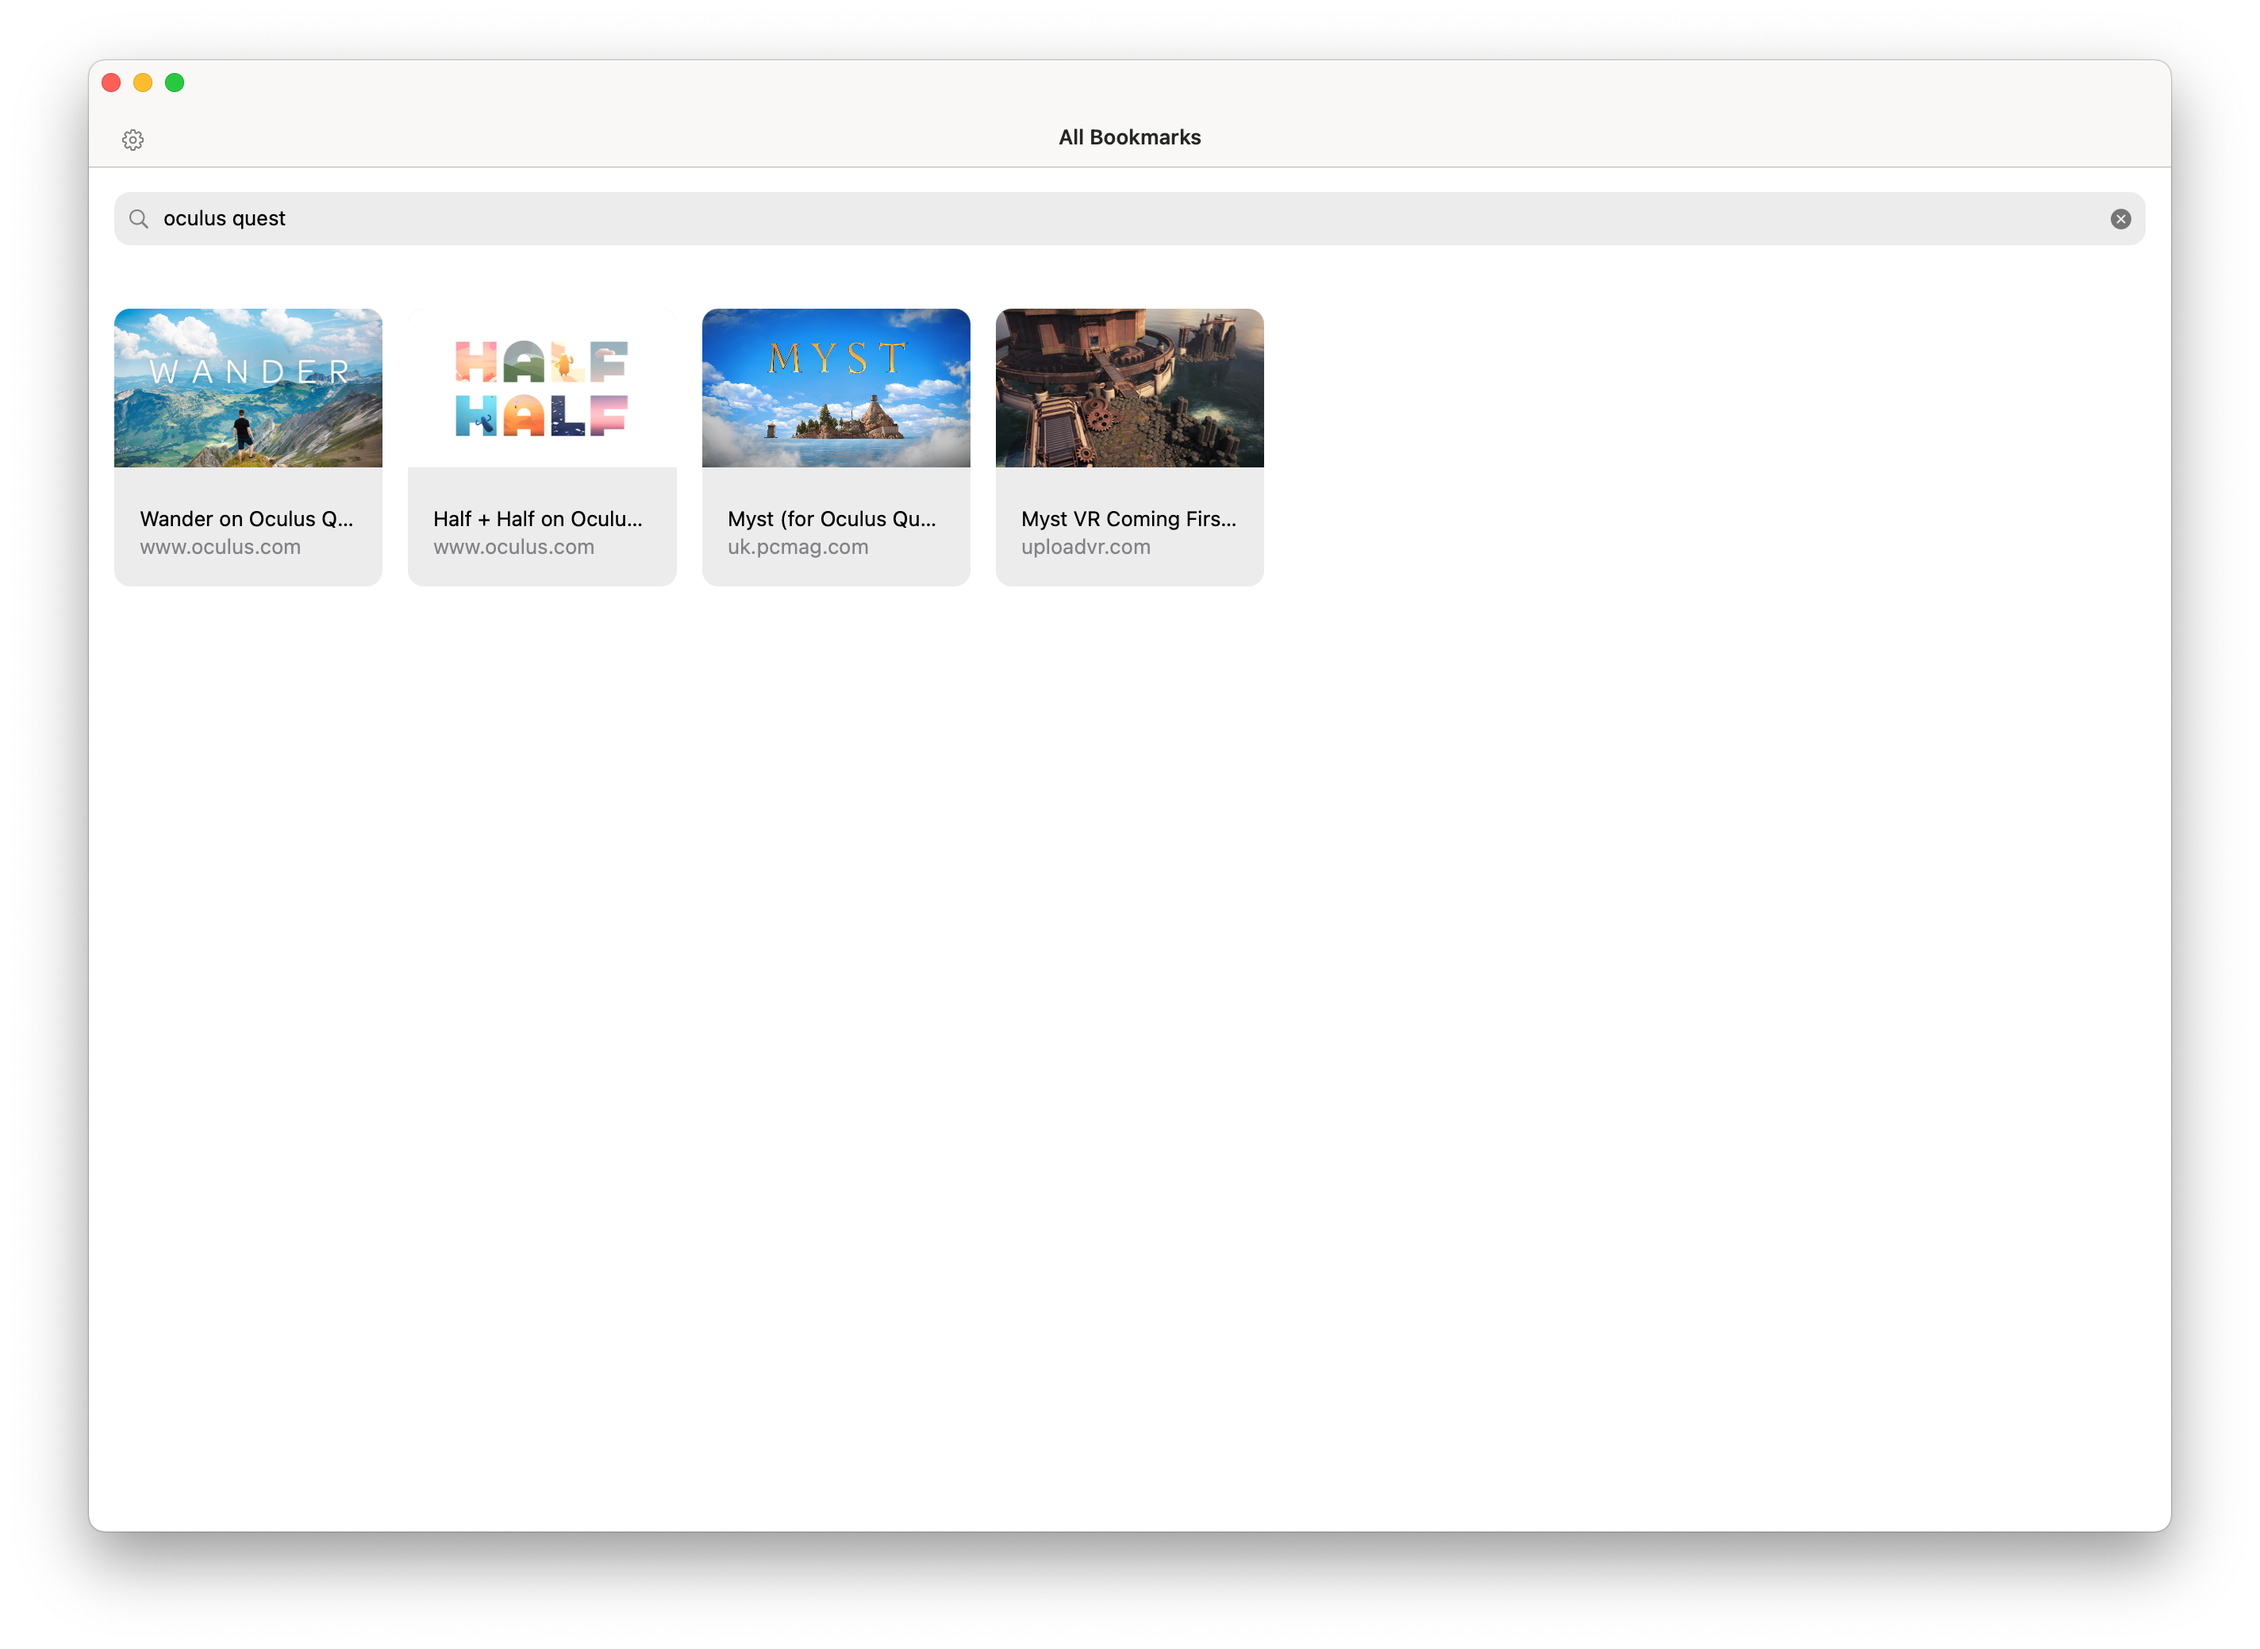
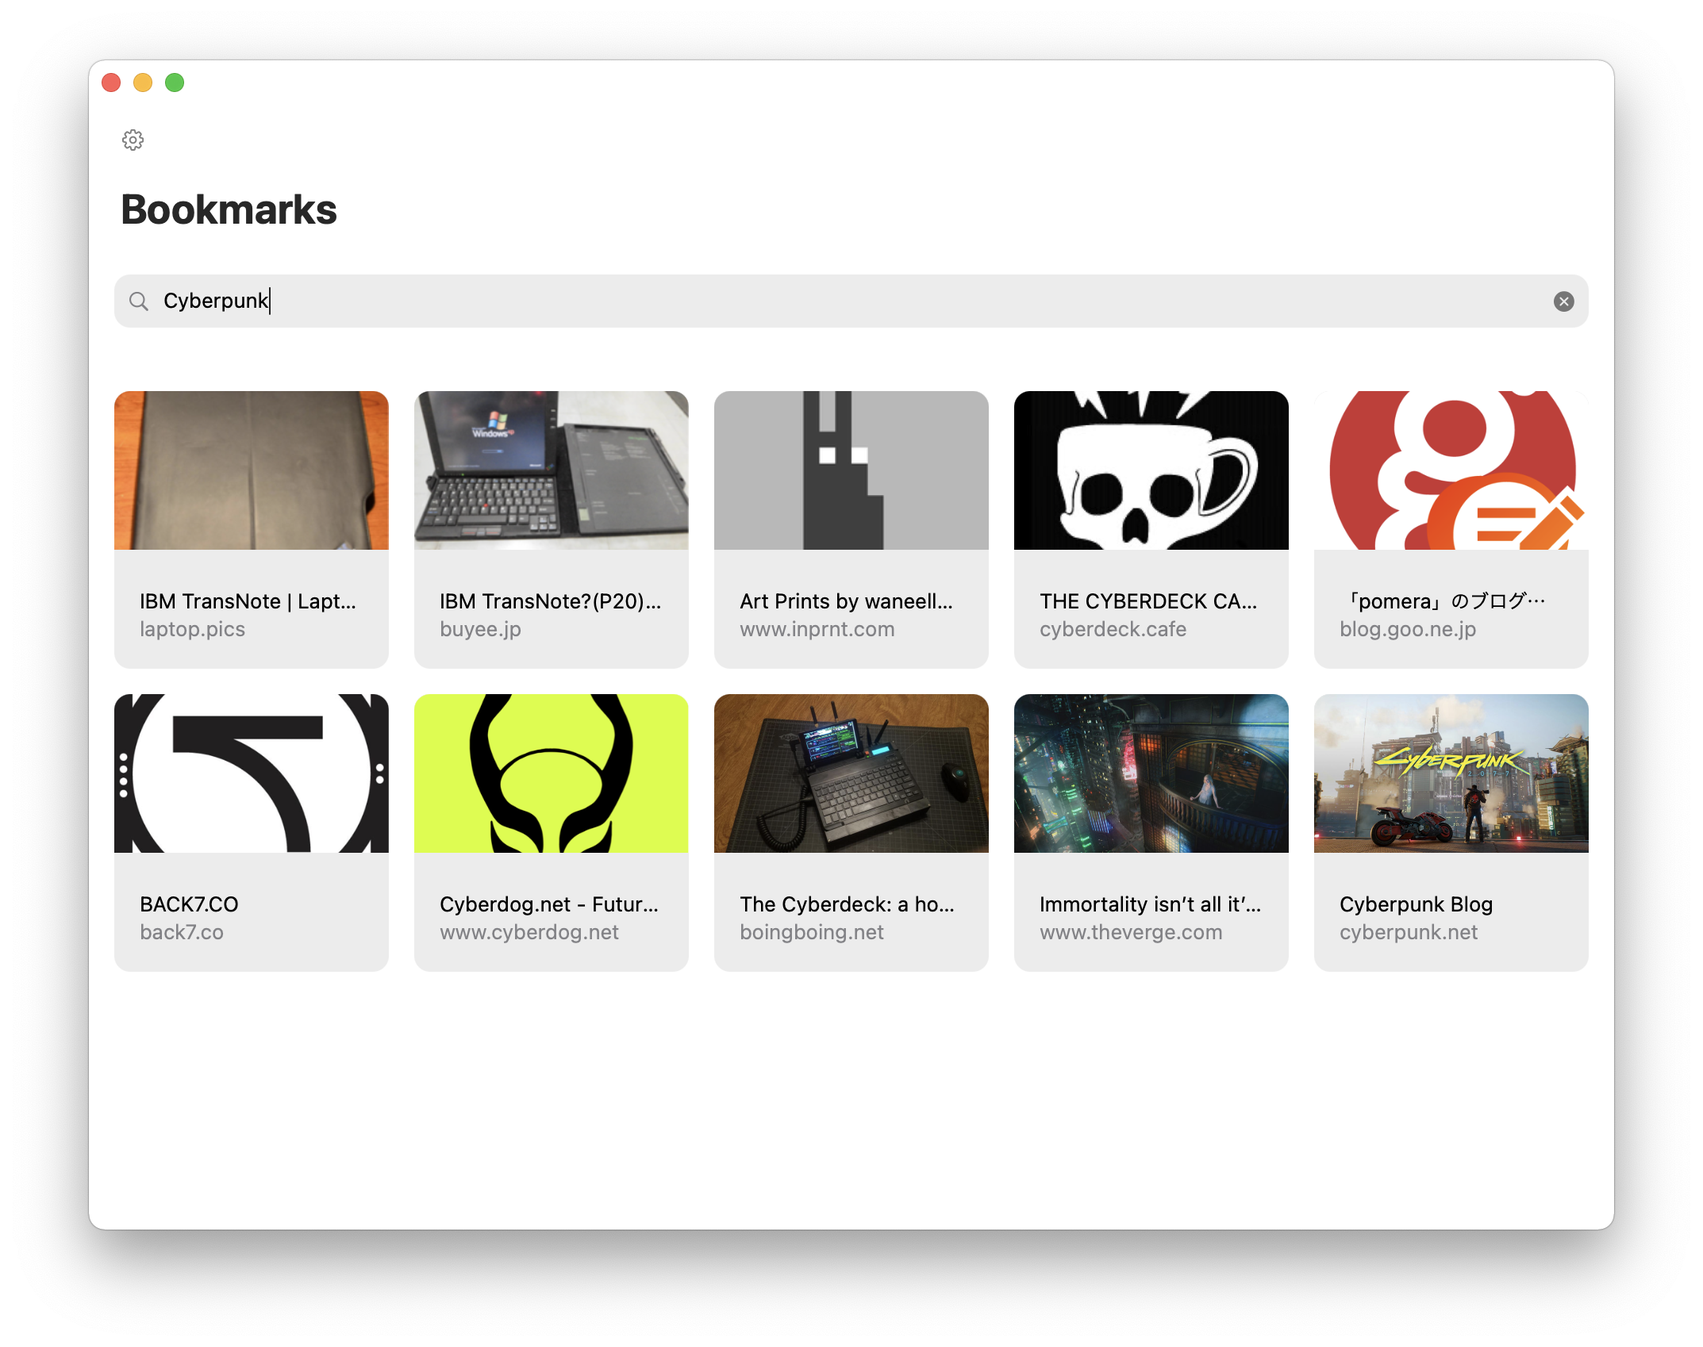
Use a large navigation bar title (#54)
* Use a large navigation bar title

* Remove defunct code.

diff --git a/ios/Bookmarks/Interface/ContentView.swift b/ios/Bookmarks/Interface/ContentView.swift
@@ -25,12 +25,11 @@ struct ContentView: View {
 
     @Environment(\.manager) var manager: BookmarksManager
     @ObservedObject var store: Store
-    @State var selected = true
-    @State var filter = ""
 
     var body: some View {
         NavigationView {
-            BookmarksView(store: store, title: "All Bookmarks")
+            BookmarksView(store: store)
+                .navigationBarTitle("Bookmarks", displayMode: .large)
         }
         .navigationViewStyle(StackNavigationViewStyle())
     }

diff --git a/ios/Bookmarks/Interface/BookmarksView.swift b/ios/Bookmarks/Interface/BookmarksView.swift
@@ -28,7 +28,6 @@ struct BookmarksView: View {
 
     @Environment(\.manager) var manager: BookmarksManager
     @ObservedObject var store: Store
-    var title: String
     var tag: String?
 
     @State var sheet: SheetType?
@@ -77,7 +76,6 @@ struct BookmarksView: View {
                 }
             }
         }
-        .navigationBarTitle(title, displayMode: .inline)
         .navigationBarItems(leading: Button(action: {
             sheet = .settings
         }) {
